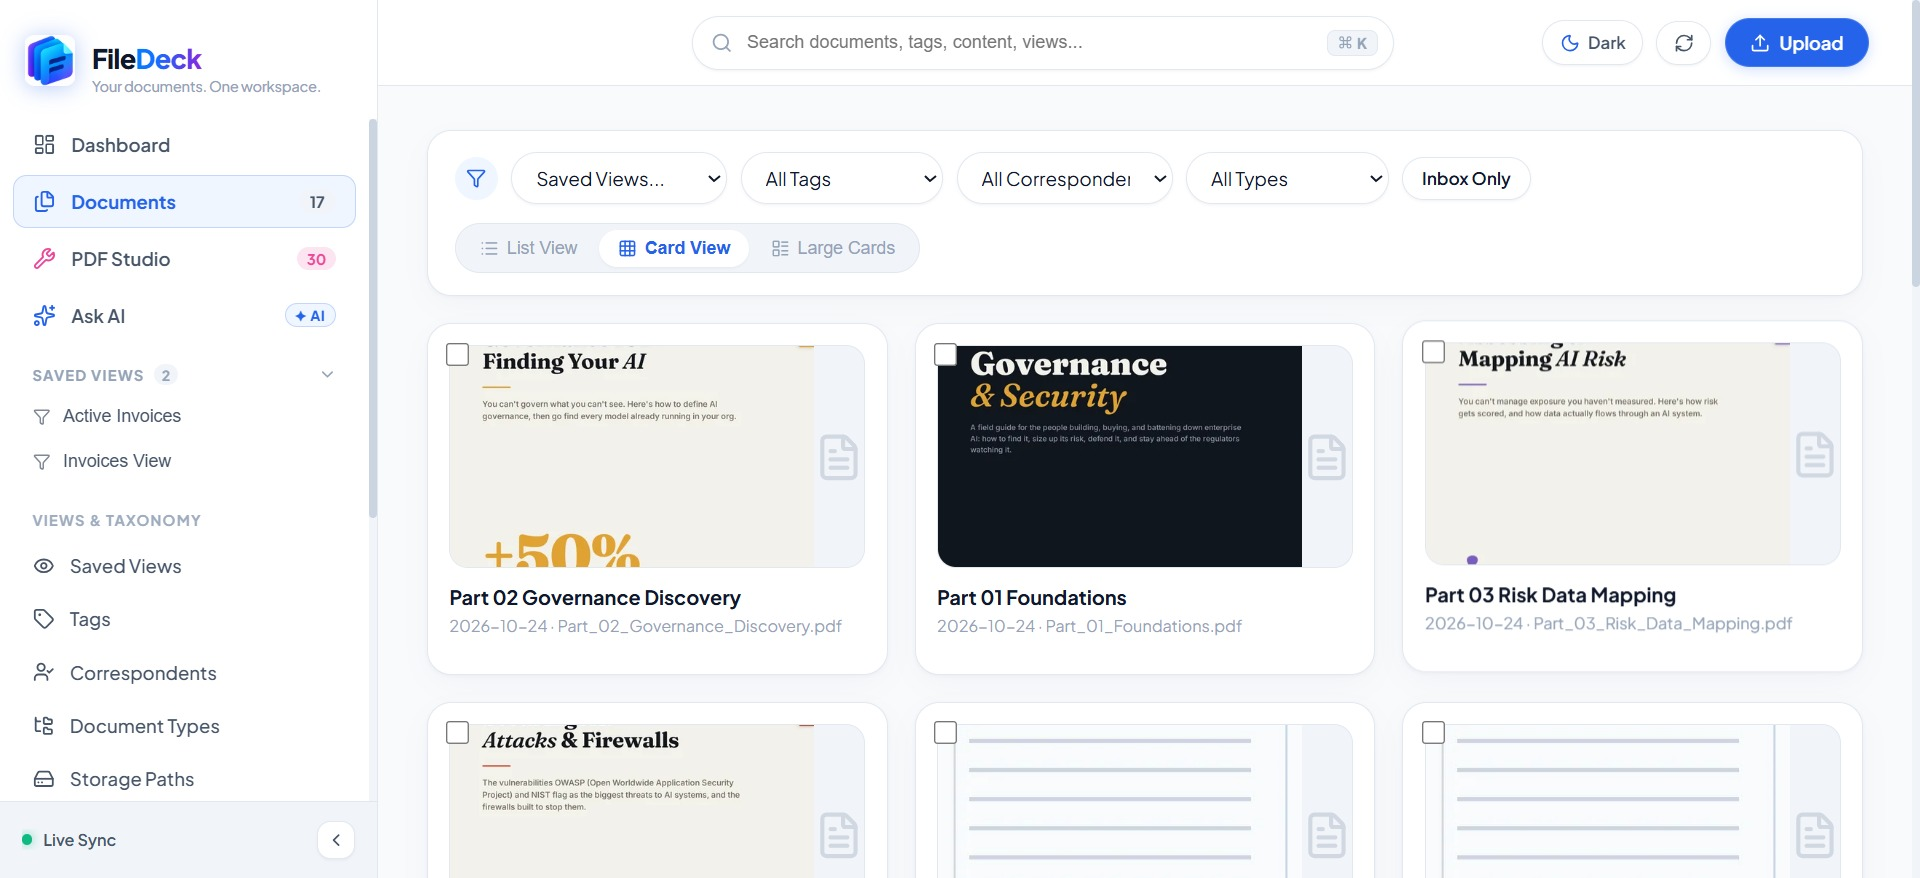
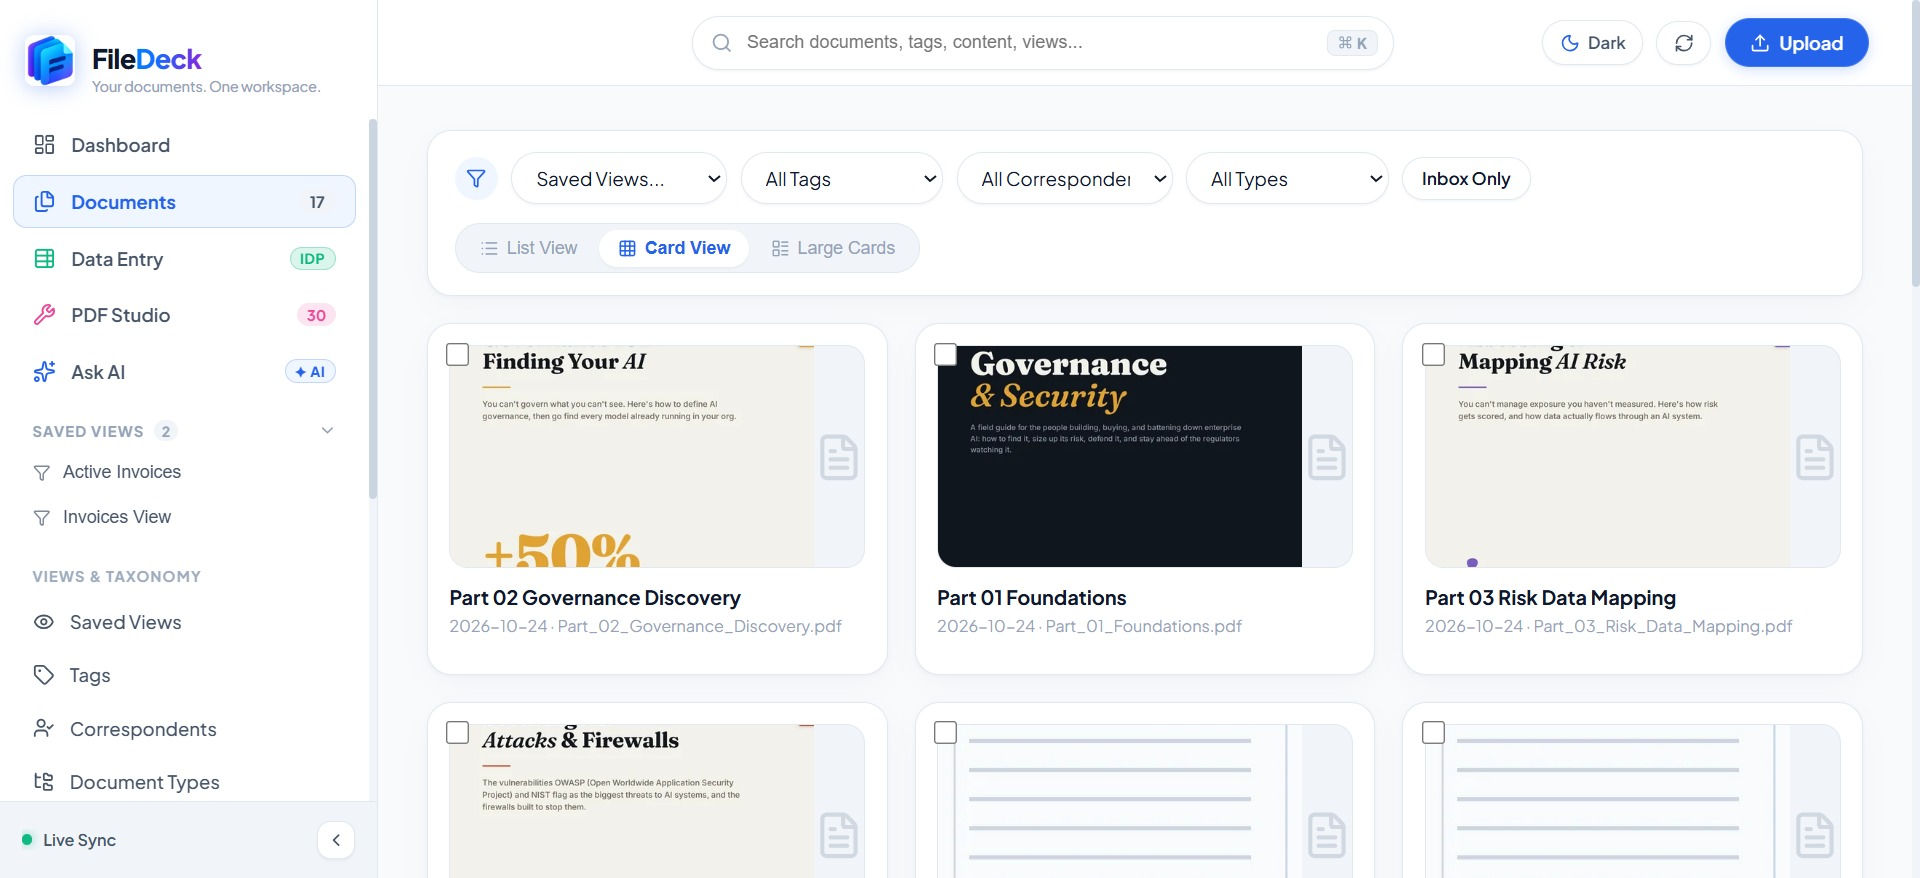
docs: update README with colorful badge wall, new screenshots, and IDP feature overview

diff --git a/README.md b/README.md
@@ -8,26 +8,31 @@
 </div>
 
 <p align="center">
-  <a href="#architecture"><img src="https://img.shields.io/badge/Architecture-Rust%20%2B%20Python%20Worker-orange?style=for-the-badge&logo=rust" alt="Rust Backend"></a>
-  <a href="#features"><img src="https://img.shields.io/badge/Privacy-100%25%20Offline%20%7C%20Zero%20Telemetry-blueviolet?style=for-the-badge" alt="100% Offline"></a>
-  <a href="#pdf-studio"><img src="https://img.shields.io/badge/PDF%20Studio-30%20Local%20Tools-blue?style=for-the-badge" alt="30 PDF Tools"></a>
-  <a href="#desktop-app"><img src="https://img.shields.io/badge/Desktop%20App-Tauri%20(In%20Progress)-24C8D8?style=for-the-badge&logo=tauri&logoColor=white" alt="Tauri Desktop"></a>
-  <a href="#stack"><img src="https://img.shields.io/badge/Frontend-React%2018%20%2B%20Vite%20%2B%20TS-61DAFB?style=for-the-badge&logo=react" alt="React"></a>
+  <img src="https://img.shields.io/badge/RUST-AXUM%200.7-E05D44?style=for-the-badge&logo=rust&logoColor=white" alt="Rust Axum">
+  <img src="https://img.shields.io/badge/REACT-18%20%2B%20VITE-06B6D4?style=for-the-badge&logo=react&logoColor=white" alt="React 18">
+  <img src="https://img.shields.io/badge/QWEN%202.5-LOCAL%201.5B%20AI-8B5CF6?style=for-the-badge&logo=huggingface&logoColor=white" alt="Qwen 2.5">
+  <img src="https://img.shields.io/badge/TAURI-DESKTOP%20APP-24C8D8?style=for-the-badge&logo=tauri&logoColor=white" alt="Tauri">
 </p>
 
 <p align="center">
-  <img src="https://img.shields.io/badge/Backend-Rust%20Axum%20%2F%20Tokio-black?logo=rust" alt="Rust">
-  <img src="https://img.shields.io/badge/Worker-Python%203.12%20%2F%20FastAPI-3776AB?logo=python" alt="Python">
-  <img src="https://img.shields.io/badge/Search-Tantivy%20BM25-red" alt="Tantivy">
-  <img src="https://img.shields.io/badge/Database-SQLite%20(WAL%20Mode)-003B57?logo=sqlite" alt="SQLite">
-  <img src="https://img.shields.io/badge/AI%20Inference-Qwen%202.5%20(1.5B)%20GGUF-purple" alt="Local AI">
+  <img src="https://img.shields.io/badge/PRIVACY-100%25%20OFFLINE-6366F1?style=for-the-badge&logo=shield&logoColor=white" alt="100% Offline">
+  <img src="https://img.shields.io/badge/PDF%20STUDIO-30%20TOOLS-EC4899?style=for-the-badge&logo=adobeacrobatreader&logoColor=white" alt="PDF Studio">
+  <img src="https://img.shields.io/badge/IDP-DATA%20ENTRY-10B981?style=for-the-badge&logo=microsoftexcel&logoColor=white" alt="IDP Data Entry">
+  <img src="https://img.shields.io/badge/TANTIVY-BM25%20SEARCH-EF4444?style=for-the-badge&logo=apachelucene&logoColor=white" alt="Tantivy Search">
+</p>
+
+<p align="center">
+  <img src="https://img.shields.io/badge/SQLITE-WAL%20MODE-0284C7?style=for-the-badge&logo=sqlite&logoColor=white" alt="SQLite WAL">
+  <img src="https://img.shields.io/badge/FASTAPI-PYTHON%203.12-009688?style=for-the-badge&logo=fastapi&logoColor=white" alt="FastAPI">
+  <img src="https://img.shields.io/badge/RAPID%20OCR-ONNX%20RUNTIME-2563EB?style=for-the-badge&logo=onnx&logoColor=white" alt="Rapid OCR">
+  <img src="https://img.shields.io/badge/EXCEL-STYLED%20XLSX-107C41?style=for-the-badge&logo=openpyxl&logoColor=white" alt="Excel Export">
 </p>
 
 ---
 
 ## Description
 
-**FileDeck** is a fast, 100% offline document workspace that keeps all your files organized, searchable, and completely private on your own computer. Whether you are managing bills, receipts, contracts, tax records, or research decks, FileDeck automatically reads text from scans and images, organizes your paperwork with smart tags and senders, and lets you find anything in seconds with instant search. It also comes with an all-in-one studio of **30 handy PDF tools** that let you merge, split, compress, protect, watermark, and convert documents right on your machine with zero internet required.
+**FileDeck** is a fast, 100% offline document workspace that keeps all your files organized, searchable, and completely private on your own computer. Whether you are managing bills, receipts, contracts, tax records, or research decks, FileDeck automatically reads text from scans and images, organizes your paperwork with smart tags and senders, and lets you query your documents using a **private, local AI assistant**. It also features an **Intelligent Document Processing (IDP) workspace** to batch-extract structured fields directly into verified Excel spreadsheets, alongside an all-in-one studio of **30 offline PDF tools** to merge, split, compress, protect, and convert documents with zero cloud dependencies.
 
 ---
 
@@ -48,13 +53,13 @@ Modern document apps often make you choose between privacy and convenience: onli
 
 ## Current Snapshots
 
-| **Intuitive Analytics Dashboard** | **Rich Document Vault & Card Explorer** |
+| **Dashboard** | **Document Explorer** |
 | :---: | :---: |
-| <a href="public/dashboard.jpg"><img src="public/dashboard.jpg" alt="FileDeck Analytics Dashboard" width="100%"></a> | <a href="public/documents.jpg"><img src="public/documents.jpg" alt="Document Explorer & Grid Cards" width="100%"></a> |
-| *Real-time vault statistics, ingestion status, document format distribution, and inbox alerts.* | *Instant faceted filtering, saved views, multi-card grid, and batch operations.* |
-| **30-in-1 Offline PDF Studio** | **Real-Time Asynchronous Task Queue** |
-| <a href="public/pdf_studio.jpg"><img src="public/pdf_studio.jpg" alt="FileDeck PDF Studio" width="100%"></a> | <a href="public/task_queue.jpg"><img src="public/task_queue.jpg" alt="Background Task Queue Monitor" width="100%"></a> |
-| *Full suite of 30 local PDF tools organized 5 per row with zero external cloud dependencies.* | *Live job tracking, OCR progress, version merge status, and duplicate detection.* |
+| <a href="public/dashboard.jpg"><img src="public/dashboard.jpg" alt="Dashboard Screenshot" width="100%"></a> | <a href="public/documents.jpg"><img src="public/documents.jpg" alt="Document Explorer Screenshot" width="100%"></a> |
+| **Data Entry & IDP Workspace** | **PDF Studio** |
+| <a href="public/data_entry.png"><img src="public/data_entry.png" alt="Data Entry & IDP Workspace Screenshot" width="100%"></a> | <a href="public/pdf_studio.jpg"><img src="public/pdf_studio.jpg" alt="PDF Studio Screenshot" width="100%"></a> |
+| **Ask AI Assistant** | **Task Queue** |
+| <a href="public/ask_ai.jpg"><img src="public/ask_ai.jpg" alt="Ask AI Assistant Screenshot" width="100%"></a> | <a href="public/task_queue.jpg"><img src="public/task_queue.jpg" alt="Task Queue Screenshot" width="100%"></a> |
 
 ---
 
@@ -68,7 +73,13 @@ Modern document apps often make you choose between privacy and convenience: onli
 - **Configurable Saved Views**: Create, save, and pin customized filtered queries directly into the primary navigation sidebar.
 - **Bulk Operations**: In-app bulk edit, tag assignment, multi-file re-OCR, version merging, and batch ZIP export.
 
-### 2. 30-in-1 Native PDF Studio
+### 2. Intelligent Document Processing (IDP) & Data Entry Workspace
+- **Schema-Driven Extraction**: Define schemas with column types (monetary, date, string, integer), validation rules, and regex patterns.
+- **Virtualized Review Grid**: Human-in-the-loop review interface with click-to-source bounding box inspection and inline cell editing.
+- **Hardware Scanner Bridge**: Direct integration with office document scanners (WIA / NAPS2 CLI) for automated ADF batch scanning.
+- **Spreadsheet Export**: Direct export to styled `.xlsx` workbooks and RFC 4180 CSV with UTF-8 BOM for Microsoft Excel.
+
+### 3. 30-in-1 Native PDF Studio
 A dedicated offline workstation built directly into FileDeck with zero cloud upload limits or subscription gates:
 
 | Category | Available Tools |
@@ -80,34 +91,34 @@ A dedicated offline workstation built directly into FileDeck with zero cloud upl
 | **Security & Legal** | **Protect PDF** (AES password encryption), **Unlock PDF**, **Redact PDF** (permanent blackout), **Sign PDF** (digital/visual stamp), **PDF to PDF/A** (long-term preservation) |
 | **Edit & Annotate** | **Watermark PDF** (text/image with custom opacity and angles), **Page Numbers** (custom positions & formats), **Edit PDF**, **Compare PDF** (diff side-by-side), **PDF Metadata** (title, author, subject) |
 
-### 3. Local Search & AI Intelligence
+### 4. Local Search & AI Intelligence
 - **Tantivy Full-Text Search**: In-memory BM25 index over all document OCR text, titles, correspondents, and tags with instantaneous results.
 - **Offline AI Assistant ("Ask AI")**: Powered by a local Qwen 2.5 (1.5B Instruct) model running directly on your CPU. Ask natural language questions about your documents without internet access.
 - **Vector Embeddings**: Local BGE embedding model for semantic similarity clustering and related document suggestions with offline hash fallback.
 
-### 4. Interactive Document Drawer & Version Control
+### 5. Interactive Document Drawer & Version Control
 - **Document Detail Drawer**: Inline PDF viewer, full document metadata editor, and searchable text inspector.
 - **Revision History**: Upload new revisions, track document versions, and roll back or download any previous version.
 - **Archive Serial Number (ASN)**: Automatic sequential barcode and physical filing number generator.
 - **Notes Timeline**: Add timestamped private notes and annotations directly to any document record.
 
-### 5. Taxonomy & Custom Metadata Engine
+### 6. Taxonomy & Custom Metadata Engine
 - **Tags**: Color-coded taxonomy labels for organizing documents across projects and categories.
 - **Correspondents**: Track senders, recipients, and institutions associated with incoming documents.
 - **Document Types**: Classify documents into structured types (Invoices, Receipts, Bank Statements, Contracts).
 - **Dynamic Storage Paths**: Rule-based directory formatter (`{created_year}/{correspondent}/{title}`) with simulated breadcrumb previews.
 - **Custom Metadata Fields**: Define custom data fields across 8 types (Text, URL, Date, Boolean, Integer, Float, Monetary, and DocumentLink).
 
-### 6. Workflow Automations & Mail Fetcher
+### 7. Workflow Automations & Mail Fetcher
 - **Workflow Automation Engine**: Trigger automated actions (tag assignment, correspondent tagging, title formatting, storage path assignment) on document ingestion.
 - **IMAP/POP3 Mail Fetcher**: Periodically scans configured email accounts, extracts PDF attachments, and ingests them directly into your inbox.
 
-### 7. Operations, Task Queue & 30-Day Trash Bin
+### 8. Operations, Task Queue & 30-Day Trash Bin
 - **Live Task Queue**: Monitor background ingestion, OCR progress, task duration, retry failed jobs, and acknowledge completions.
 - **30-Day Safety Trash**: Soft-delete safety net holding deleted items for 30 days with one-click restore and permanent purge safeguards.
 - **Audit Logs Viewer**: Full operational trace viewer for backend diagnostics, watcher events, and system activities.
 
-### 8. UI Experience & Unified In-App Modals
+### 9. UI Experience & Unified In-App Modals
 - **100% In-App Modals**: Completely replaces native browser alert, confirm, and prompt dialogs with accessible, themed modals featuring backdrop blur, keyboard navigation (<kbd>Enter</kbd> / <kbd>Esc</kbd>), and destructive action safeguards.
 - **Fast Theme Switching**: Instant toggling between modern Dark Mode and clean Light Mode.
 - **Keyboard Shortcuts**: Quick search access via <kbd>Cmd</kbd>/<kbd>Ctrl</kbd> + <kbd>K</kbd>.
